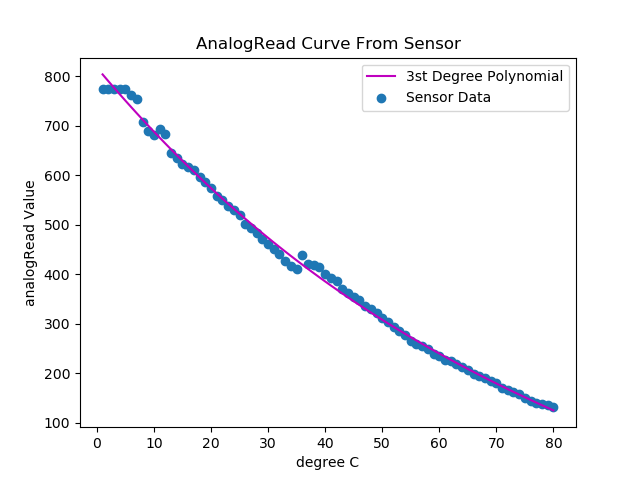
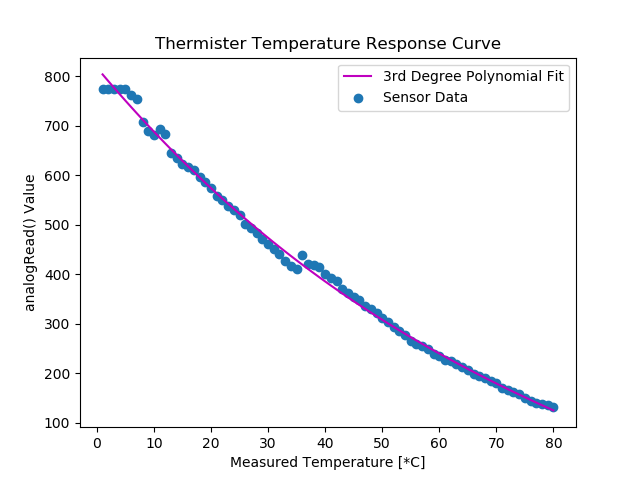
added rangefinder graph

diff --git a/graphing.py b/graphing.py
@@ -9,36 +9,40 @@ a=db.values
 deg_c = a[:,0]
 analog_value = a[:,1]
 
-print(analog_value)
-
-
 #read in step response csv
 data = pd.read_csv("step.csv", encoding = "ISO-8859-1")
 b=data.values
-
 sensor_values = b[128:,2] #the sensor was dunked at approx sample #128
 time = b[128:,1]#row 128-end, column 1
+
+#read in rangefinder csv
+range_data = pd.read_csv("range_data.csv", encoding = "ISO-8859-1")
+c=range_data.values
+range_values = c[:,0]
+rangefinder_values = c[:,1]
 
 #switch to figure 1
 plt.figure(1)
 
 #title and axis labels
 plt.title('Step Response of Thermister When Submerged in Ice Water')
-plt.xlabel("time (ms)")
-plt.ylabel("analogRead Value")
+plt.xlabel("time [ms]")
+plt.ylabel("analogRead() Value")
 
 #plot raw data
-plt.scatter(time,sensor_values, label = "Sensor Data")
+plt.scatter(time,sensor_values, label = "Thermister Data")
 
 #line of best fit 1
 coeffs1 = poly.polyfit(time, sensor_values, 1)
 ffit = poly.polyval(time, coeffs1)
-plt.plot(time, ffit, 'm', label = '1st Degree Polynomial')
+plt.plot(time, ffit, 'm', label = '1st Degree Polynomial Fit')
+
 
 #line of best fit 2
 coeffs2 = poly.polyfit(time, sensor_values, 2)
 ffit = poly.polyval(time, coeffs2)
-plt.plot(time, ffit, 'k',  label = '2nd Degree Polynomial')
+plt.plot(time, ffit, 'k',  label = '2nd Degree Polynomial Fit')
+print(coeffs2)
 
 #add a legend
 plt.legend()
@@ -55,9 +59,9 @@ plt.show()
 plt.figure(2)
 
 #title and axis labels
-plt.title('AnalogRead Curve From Sensor')
-plt.xlabel("degree C")
-plt.ylabel("analogRead Value")
+plt.title('Thermister Temperature Response Curve')
+plt.xlabel("Measured Temperature [*C]")
+plt.ylabel("analogRead() Value")
 
 #plot raw data
 plt.scatter(deg_c,analog_value, label = "Sensor Data")
@@ -65,7 +69,7 @@ plt.scatter(deg_c,analog_value, label = "Sensor Data")
 #line of best fit 3
 coeffs3 = poly.polyfit(deg_c, analog_value, 3)
 ffit = poly.polyval(deg_c, coeffs3)
-plt.plot(deg_c, ffit, 'm', label = '3st Degree Polynomial')
+plt.plot(deg_c, ffit, 'm', label = '3rd Degree Polynomial Fit')
 print(coeffs3)
 
 #add a legend
@@ -73,6 +77,34 @@ plt.legend()
 
 #save the figure
 plt.savefig('curve.png')
+
+
+#display the plot
+plt.show()
+
+
+#switch to figure 3
+plt.figure(3)
+
+#title and axis labels
+plt.title('Rangefinder analogRead() Values Detecting a Flat Object')
+plt.xlabel("analogRead() Value")
+plt.ylabel("Distance from Rangefinder[mm]")
+
+#plot raw data
+plt.scatter(rangefinder_values,range_values, label = "Rangefinder Data")
+
+#line of best fit 3
+coeffs4 = poly.polyfit(rangefinder_values,range_values, 3)
+ffit = poly.polyval(rangefinder_values, coeffs4)
+plt.plot(rangefinder_values, ffit, 'm', label = '3rd Degree Polynomial Fit')
+print(coeffs4)
+
+#add a legend
+plt.legend()
+
+#save the figure
+plt.savefig('range_curve.png')
 
 
 #display the plot
